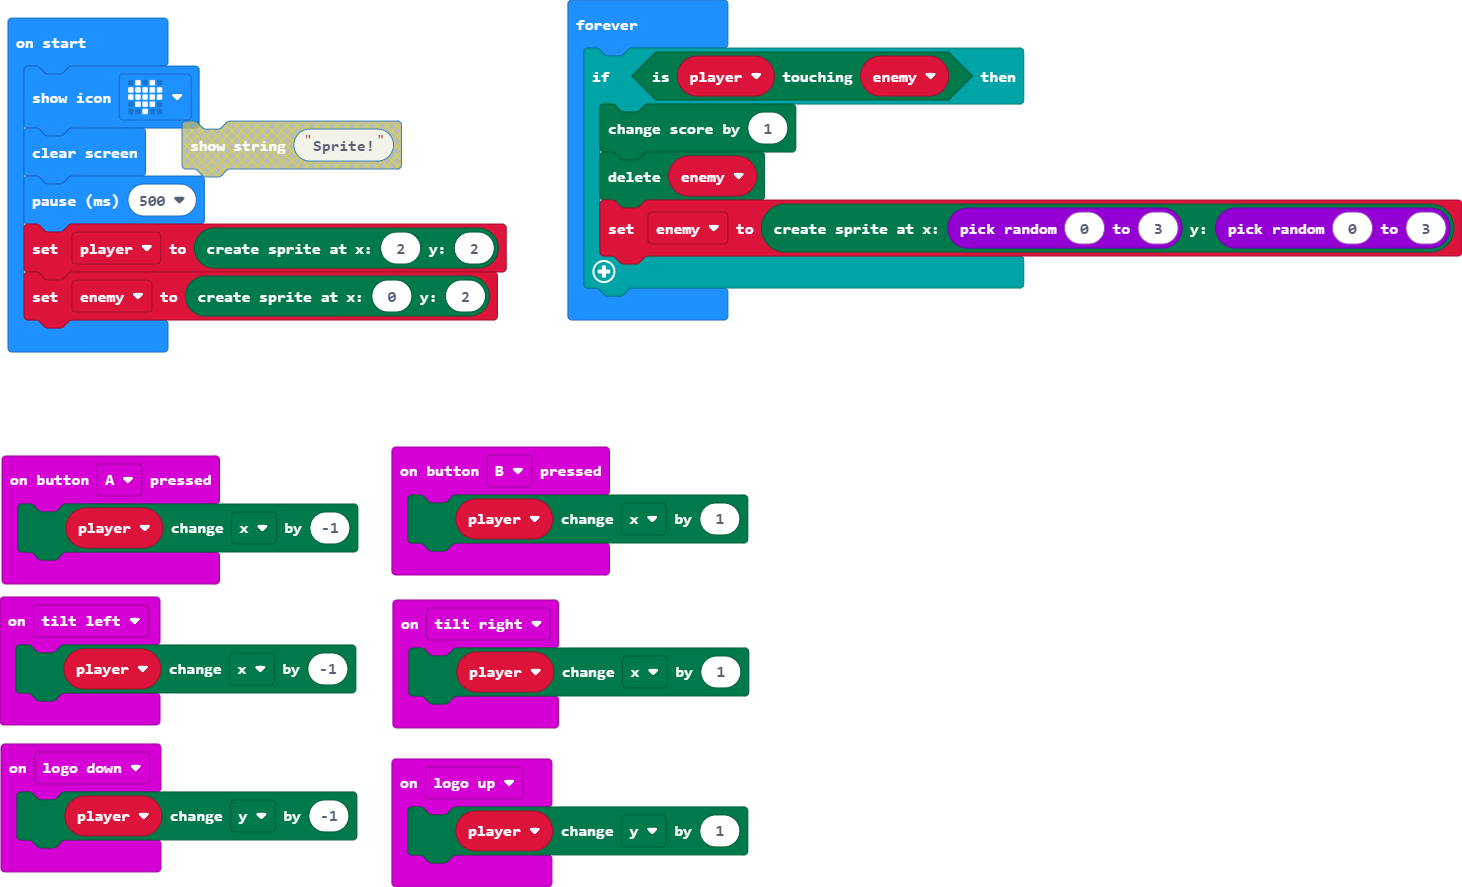
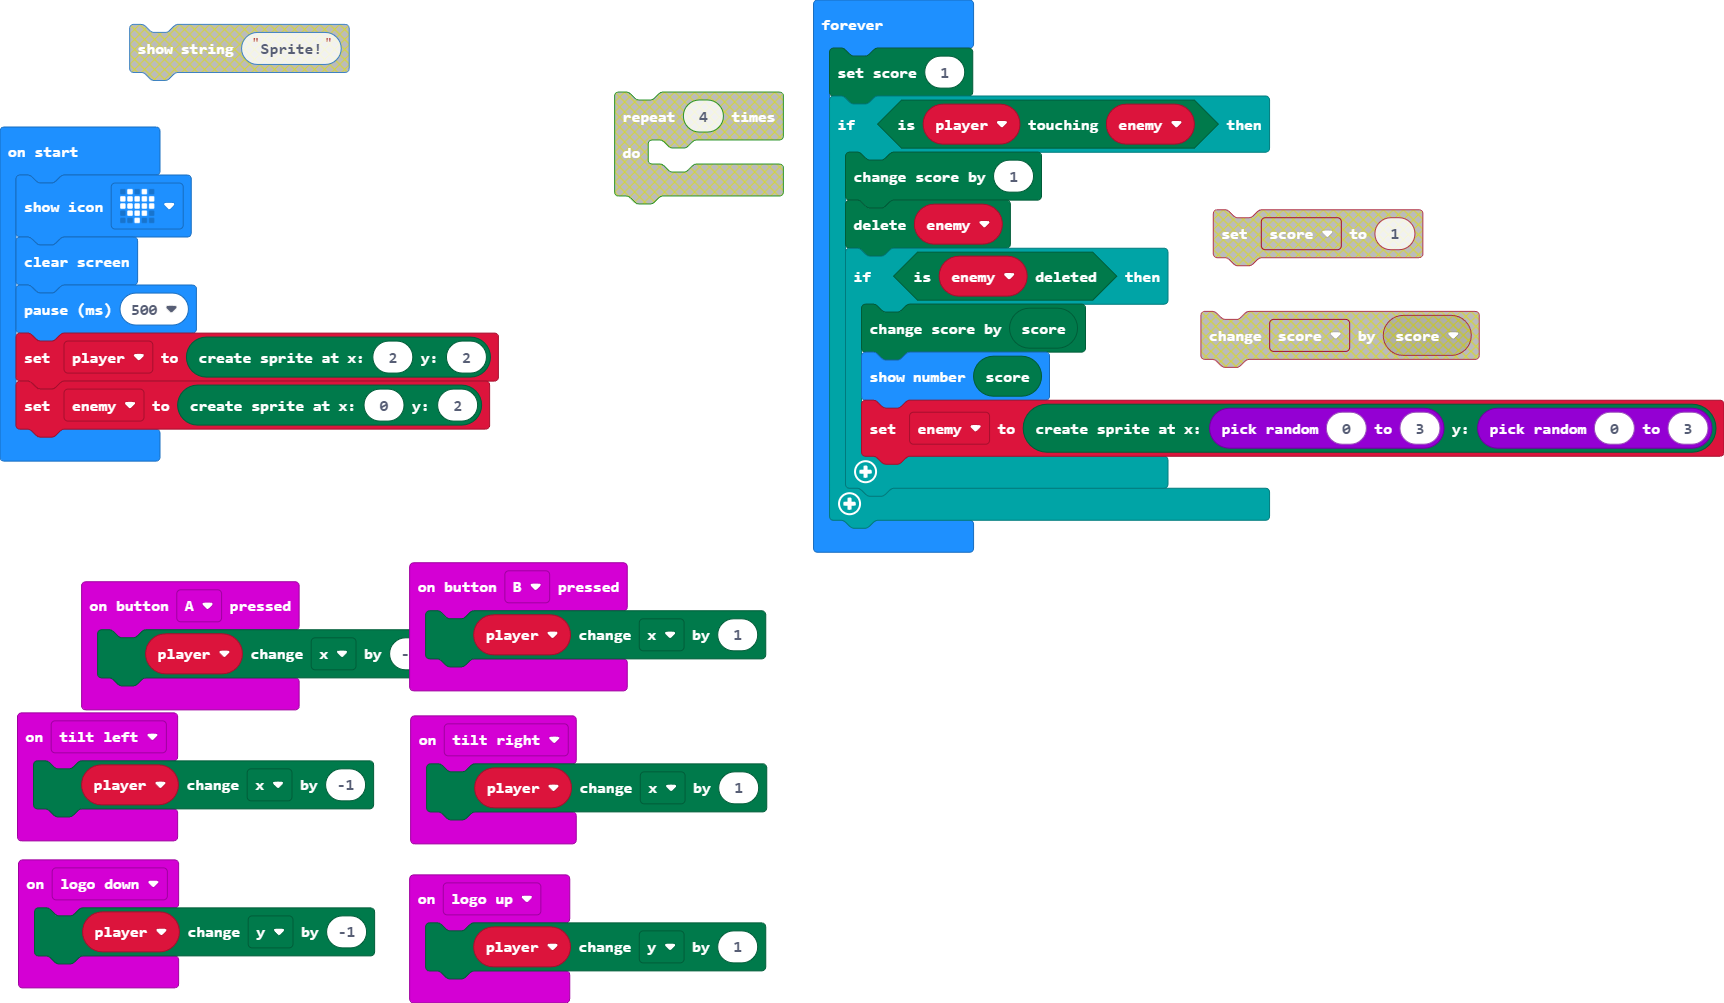
Update main.blocks, main.ts

diff --git a/main.ts b/main.ts
@@ -23,9 +23,14 @@ basic.pause(500)
 player = game.createSprite(2, 2)
 let enemy = game.createSprite(0, 2)
 basic.forever(function () {
+    game.setScore(1)
     if (player.isTouching(enemy)) {
         game.addScore(1)
         enemy.delete()
-        enemy = game.createSprite(randint(0, 3), randint(0, 3))
+        if (enemy.isDeleted()) {
+            game.addScore(game.score())
+            basic.showNumber(game.score())
+            enemy = game.createSprite(randint(0, 3), randint(0, 3))
+        }
     }
 })
